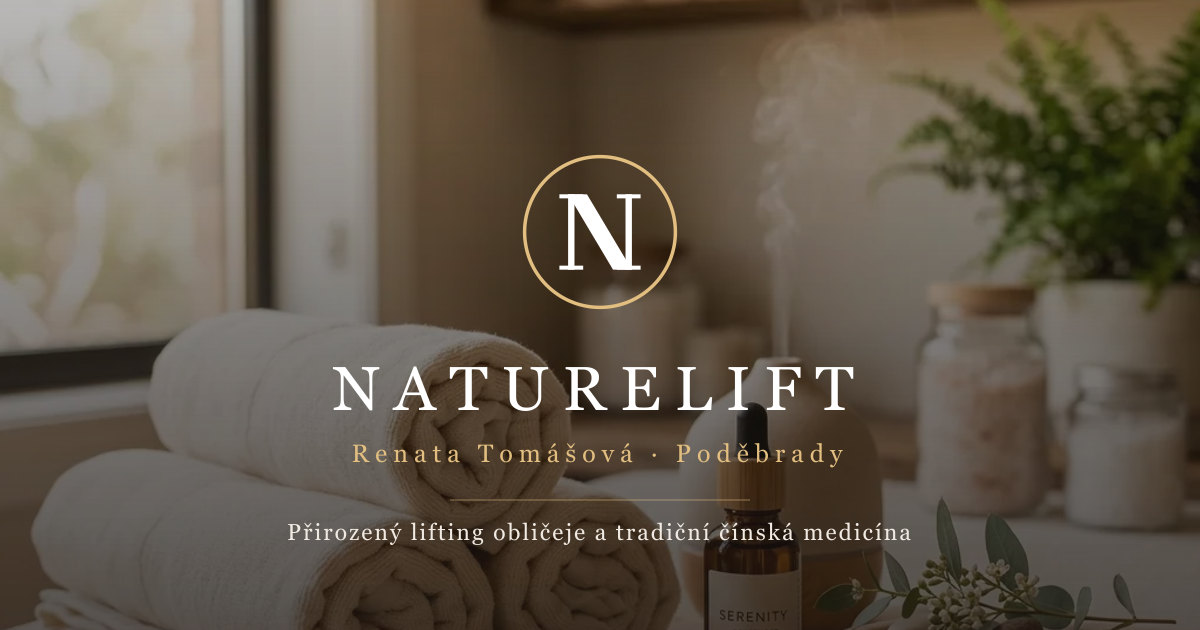
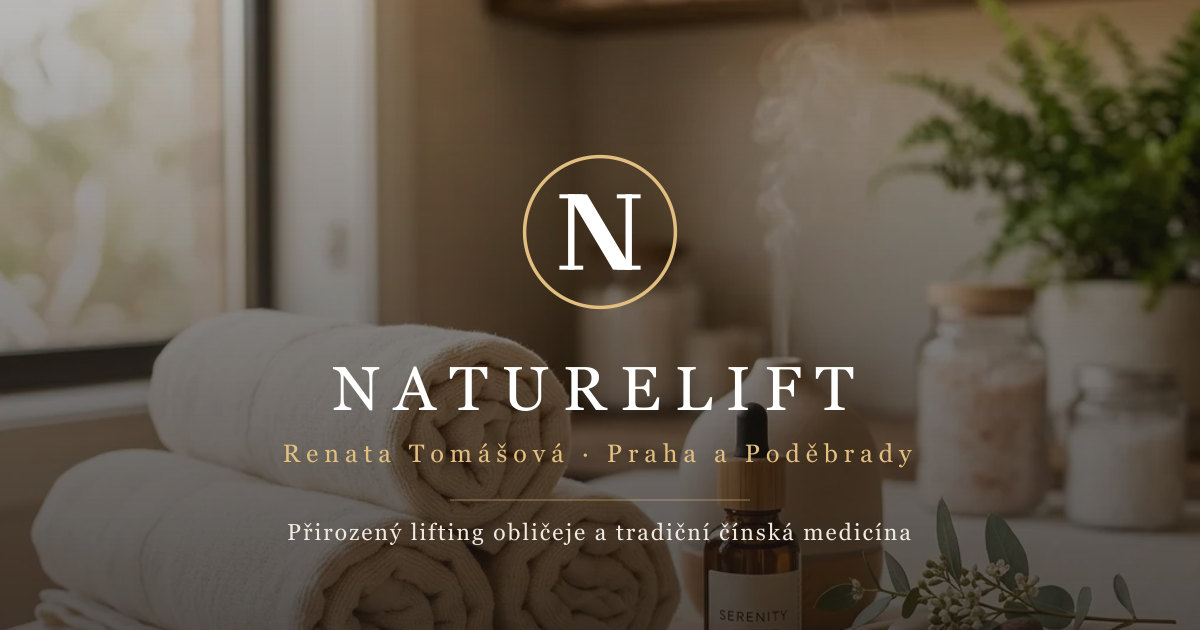
fix: srovnat strukturovaná data s aktuálním obsahem z CMS
Poslední úpravy v administraci změnily cenu Gua Sha na 850 Kč a doplnily
provozovnu Praha 2, Londýnská 11. JSON-LD i náhledový obrázek to teď
odpovídají – dvě provozovny jako `location`, areaServed Praha i Poděbrady.
Nepřesné souřadnice pro Poděbrady odstraněny.

Changed region(s): [[0.2158, 0.6937, 0.7708, 0.754]]

diff --git a/index.html b/index.html
@@ -60,20 +60,37 @@
     "currenciesAccepted": "CZK",
     "address": {
       "@type": "PostalAddress",
-      "addressLocality": "Poděbrady",
-      "addressRegion": "Středočeský kraj",
-      "postalCode": "290 01",
+      "streetAddress": "Londýnská 11",
+      "addressLocality": "Praha 2",
       "addressCountry": "CZ"
     },
-    "geo": {
-      "@type": "GeoCoordinates",
-      "latitude": 50.1428,
-      "longitude": 15.1189
-    },
-    "areaServed": {
-      "@type": "City",
-      "name": "Poděbrady"
-    },
+    "location": [
+      {
+        "@type": "Place",
+        "name": "NatureLift Praha",
+        "address": {
+          "@type": "PostalAddress",
+          "streetAddress": "Londýnská 11",
+          "addressLocality": "Praha 2",
+          "addressCountry": "CZ"
+        }
+      },
+      {
+        "@type": "Place",
+        "name": "NatureLift Poděbrady",
+        "address": {
+          "@type": "PostalAddress",
+          "streetAddress": "U Vlečky 49",
+          "addressLocality": "Poděbrady",
+          "addressRegion": "Středočeský kraj",
+          "addressCountry": "CZ"
+        }
+      }
+    ],
+    "areaServed": [
+      { "@type": "City", "name": "Praha" },
+      { "@type": "City", "name": "Poděbrady" }
+    ],
     "knowsLanguage": "cs",
     "hasOfferCatalog": {
       "@type": "OfferCatalog",
@@ -91,7 +108,7 @@
         },
         {
           "@type": "Offer",
-          "price": "700",
+          "price": "850",
           "priceCurrency": "CZK",
           "itemOffered": {
             "@type": "Service",
